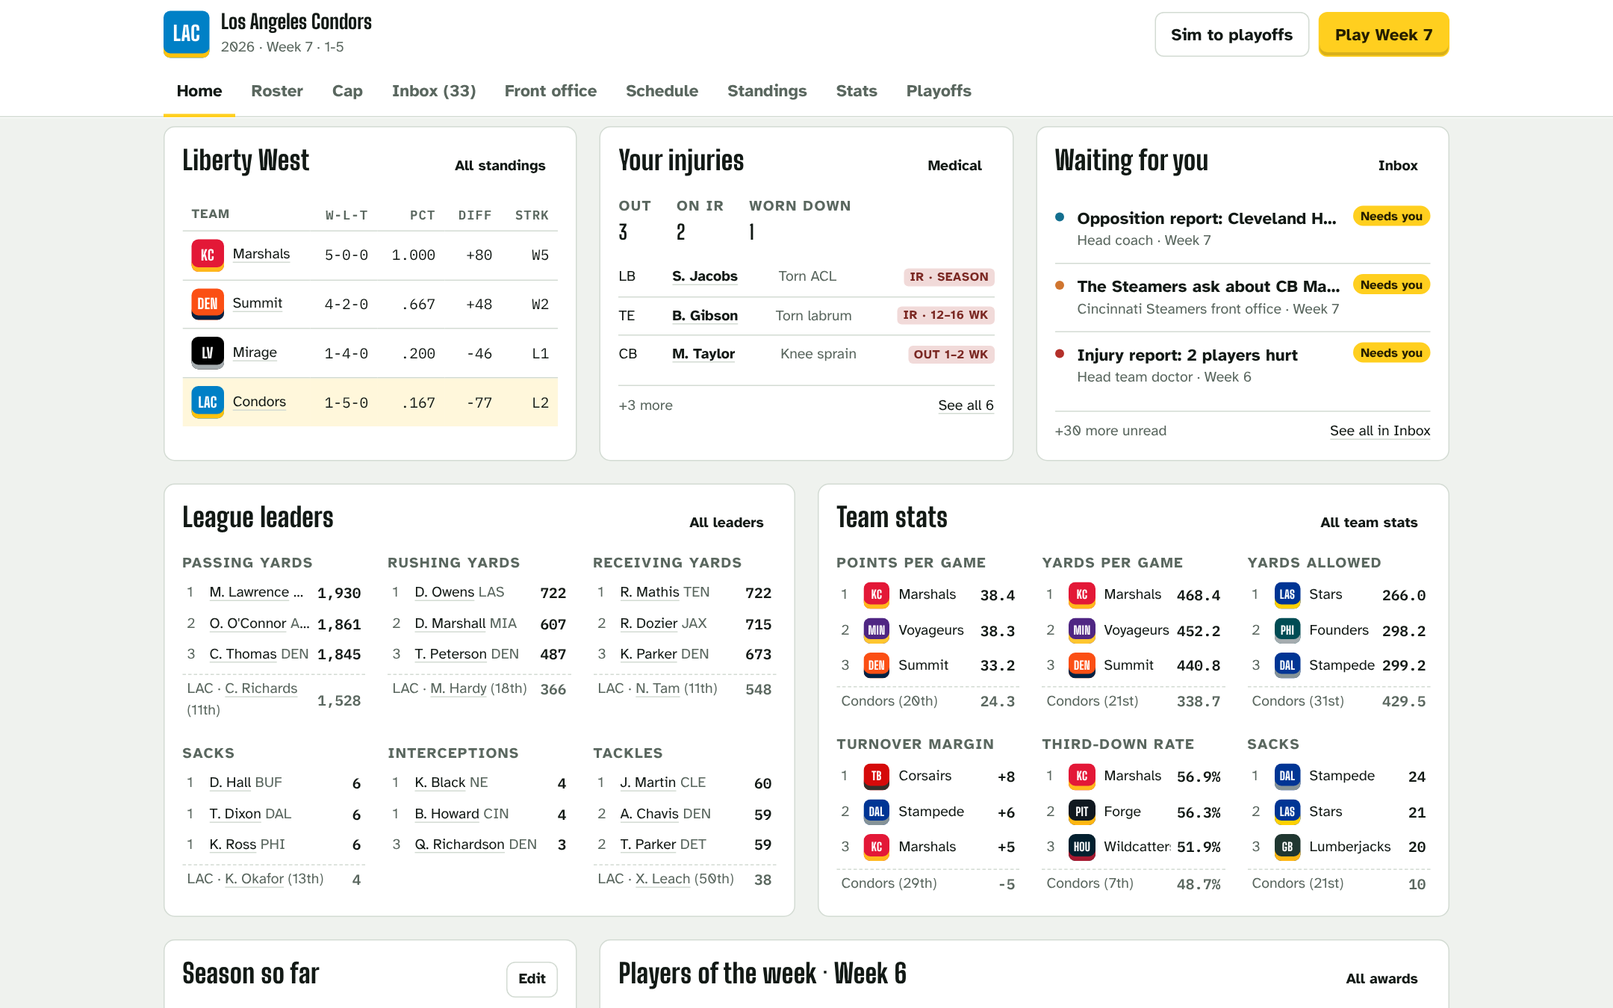
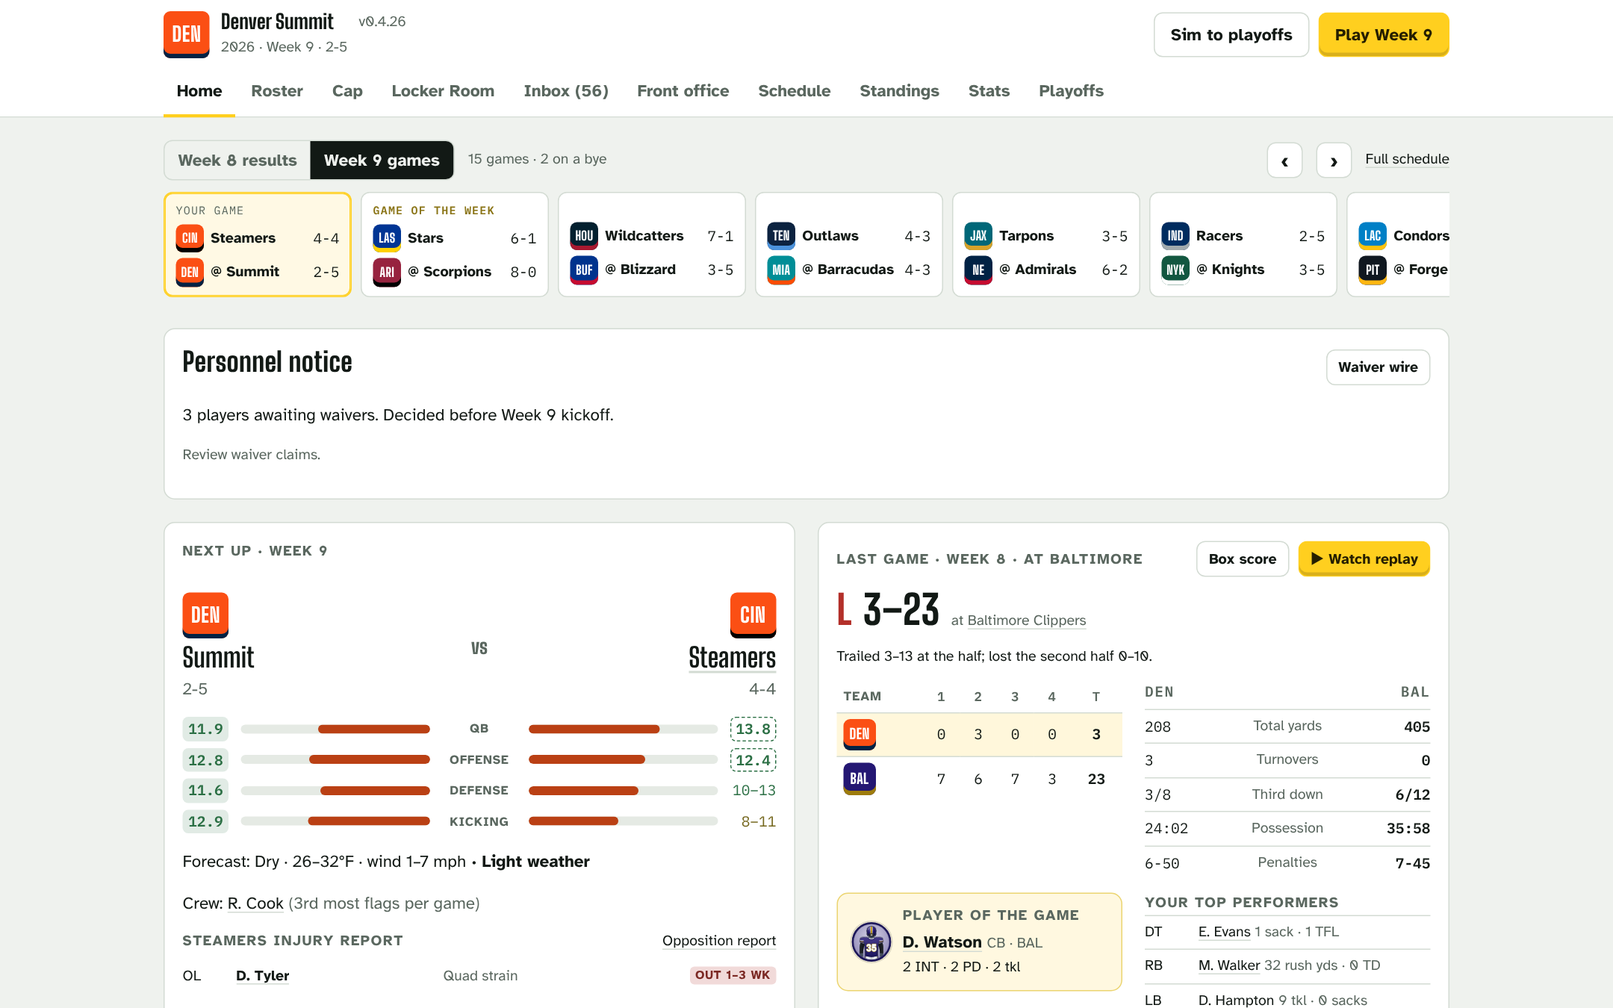
README: a new pass, with new pictures in both themes
The README had fallen behind the game: it now says what alpha holds (the
spatial field and All-22, morale and the locker room, GM habits and memory,
practice squads, job security), shows the engine's numbers against the NFL's
from a ten-season run, and adds sections on what's under the hood, the docs,
what's next and the names. The checks list follows package.json.

New media from a fresh 2026 career on the current build: a tour GIF, one play
in All-22, screens in light and dark, phone layouts, and one player's card two
seasons apart. The old coaches and four-years-on shots are gone.

Claude-Session: https://claude.ai/code/session_01M3omQsJzSsqj7NzvUuiPJn

diff --git a/README.md b/README.md
@@ -1,84 +1,280 @@
 # AFLS
 
-A deep American football management simulation: run a franchise in a fictional 32-team league, complete with divisions/conferences, weather, authentic kickoff times, and more.
-Build the roster and the coaching staff along with back office staff, and watch every snap play out from real player-vs-player matchups.
-Everything your front office knows is what its scouts have seen, so the game lives in the gap
-between what you believe and what is true. Think you know ball?
+**A deep American football management sim: Football Manager's depth, pro football's rules, a league of your own.**
 
-![A week in the front office: the home screen, then the roster and depth chart](docs/media/demo.gif)
+Run a franchise in a fictional 32-team league, complete with divisions and conferences, weather, authentic
+kickoff times, and more. Build the roster, the coaching staff and the back office, and watch every snap play
+out from real player-vs-player matchups. Everything your front office knows is what its scouts have seen, so
+the game lives in the gap between what you believe and what is true. Think you know ball?
 
-<table>
-  <tr>
-    <td width="50%"><img src="docs/media/home.png" alt="Home at week 7: division standings, injuries, inbox, league leaders and team stats"><br><sub><b>Home.</b> Standings, injuries, what the inbox needs from you, league leaders and team stats.</sub></td>
-    <td width="50%"><img src="docs/media/coaches.png" alt="Coaches: the quarterbacks room opened to show who counts for growth and decline"><br><sub><b>Coaches.</b> Open a room to see who counts for its players' growth and decline, and by how much.</sub></td>
-  </tr>
-  <tr>
-    <td width="50%"><img src="docs/media/player-card.png" alt="A player card in 2026: scout's report, habits, health and the ratings behind his overall"><br><sub><b>A player, year one.</b> The scout's report, his habits, his health, and the ratings behind his overall.</sub></td>
-    <td width="50%"><img src="docs/media/player-card-four-years-on.png" alt="The same player four seasons later: rating arrows, his development curve from 15.1 to 16.5, and his veteran deal"><br><sub><b>The same player, four seasons on.</b> Arrows since last year, his development curve, and the deal he earned.</sub></td>
-  </tr>
-</table>
+![A week at the desk: home, the head coach's letter, the depth chart, a rookie's card, a trade offer for him, then the locker room and a touchdown in All-22](docs/media/demo.gif)
+
+<sub>A week at the desk: Home, the head coach's weekly letter, the depth chart and a rookie's card, a trade
+offer for him, then (in the dark theme) the locker room and a 48-yard touchdown run in All-22.</sub>
+
+**Status: alpha (0.4).** Every item on the [MVP list](docs/MVP.md) works end to end. It runs in your browser
+and saves there: no account, no server, no install beyond `npm`.
+
+[On film](#every-snap-on-film) · [What's in the game](#whats-in-the-game) · [Screens](#screens) ·
+[Light and dark](#light-and-dark-desktop-and-phone) · [Checked against the NFL](#checked-against-the-nfl) ·
+[Play](#play) · [Under the hood](#under-the-hood) · [Develop](#develop) · [Docs](#docs) ·
+[What's next](#whats-next)
+
+## Every snap, on film
+
+![One play in All-22: a 46-yard completion down the right side](docs/media/all22.gif)
+
+<sub>Week 3 against Buffalo, 1st and 10 at our own 35: Spencer to Franklin deep right for 46 yards.</sub>
+
+The play-by-play engine decides what happened from the matchups on the field: protection against the rush,
+routes against coverage, the passer's read, the tackle in the open field. In your games a spatial engine then
+plays it out, twenty-two men at twenty steps a second. The line sets and the rush gets home or doesn't, the
+quarterback throws, throws it away or takes off, the back reads his blocks, the chase runs him down, and the
+man who gets there is the man credited with the tackle. Watch any of your games back, snap by snap, in All-22
+or the broadcast view.
 
 ## What's in the game
 
-- **Every snap is a matchup.** Pass protection against the rush, routes against coverage, tackles
-  against the open field: each play is resolved from named contests between the players on the
-  field, and league totals land inside real NFL ranges.
-- **You see what your scouts see.** Other teams' players are ranges that narrow with film; hidden
-  traits and habits are described in words, never numbers. Scout reports read like a staff wrote them.
-- **A front office with teeth.** Year-by-year contract ledgers with proration, dead money and
-  restructures; tags, the rookie scale, re-signings, free agency and a draft fed by a combine.
-- **A trade market that judges every deal.** AI front offices value players on their own read,
-  shop at the NFL's moments (deadline day, cap casualties, camp cuts), send you offers, and run every
-  deal past the buyer's doctor.
-- **Staff who matter.** Scouts set how sharp your read is, coaches shape development and call the
-  game through their schemes, the medical staff decide how fast players heal. Each has a budget,
-  contracts, a market and a carousel.
-- **Players grow, fade and change.** Development and aging on one curve, hidden traits, on-field
-  habits that come and go week to week, and position moves taught over a season.
-- **Injuries you have to manage.** Snap and collision risk, layoffs with the doctor's estimate,
-  injured reserve, treatments with the player's say, and a concussion protocol.
-- **A league that runs like one.** NFL-formula schedules, kickoff windows and flex scheduling,
-  weather by stadium, officiating crews with tendencies, penalties, records and awards.
-- **A watchable game.** Live play-by-play with a field view, box scores, and an inbox where your
-  head coach, scouting director and doctor each write in their own voice.
-- **Saves you own.** The game saves to your browser and exports a backup file; one command builds
-  a single self-contained HTML file to share.
+**On the field**
+
+- **Every snap is a matchup.** Each play is resolved from named contests between the players on the field,
+  and league totals land inside real NFL ranges ([the numbers](#checked-against-the-nfl)).
+- **Choices, not flat odds.** A passer under pressure, a runner at the sideline with the clock running, a
+  scrambler deciding to slide, a coach going for two: each reads the down, the score, the clock and the man.
+  The play-by-play says why ("slides with the first down in hand", "steps out of bounds to stop the clock").
+- **Size, schemes and habits.** Height and weight matter where they decide things (contested balls, the jam,
+  the trenches). Coordinators run real offenses, fronts and coverages. Players carry on-field habits that come
+  and go, and you learn them the way a club does: your scouts see them on film.
+- **Weather, crews and the clock.** Weather by stadium and season with forecasts that come true as often as
+  they say, seventeen officiating crews with their own tendencies, and end-of-game clock management audited
+  for nonsense.
+
+**The front office**
+
+- **You see what your scouts see.** Other teams' players are ranges that narrow with film; hidden traits and
+  habits are described in words, never numbers. Scout reports read like a staff wrote them.
+- **A cap with teeth.** Year-by-year contract ledgers with proration, dead money, restructures and void years;
+  tags, fifth-year options, the rookie scale, re-signings, free agency and a seven-round draft fed by a combine.
+- **A trade market that judges every deal.** AI front offices value players on their own read, shop at the
+  NFL's moments (deadline day, cap casualties, camp cuts, draft day), send you offers, and run every deal past
+  the buyer's doctor.
+- **General managers who are people.** Each AI GM has hidden habits (signs a bridge quarterback, trades firsts
+  for stars, goes gun-shy on big deals) and remembers how you've dealt with him. It leans his price, his
+  patience and whether he calls you first.
+- **The 53 and the 16.** Practice squads, the waiver wire, game-day call-ups, poaching and protections, with AI
+  clubs covering their injuries the way real ones do.
+
+**The people**
+
+- **Staff who matter.** Scouts set how sharp your read is, coaches shape development and call the game through
+  their schemes, the medical staff decide how fast players heal. Each has a budget, contracts, a market, a
+  carousel and coaching trees that grow over the years.
+- **Players grow, fade and change.** Development and aging on one curve, ceilings that settle over a player's
+  first three seasons (first-rounders bust, Day 3 picks break out), position moves taught over a season, and
+  veterans mentoring the young.
+- **A locker room.** Every player has a mood with reasons behind it: his deal, his snaps, the losing, a feud.
+  He'll come to you about it. You promise, reassure or stand firm, and promises are kept or broken by what
+  happens next. Ignore it and you get hold-ins, holdouts and trade requests that leak.
+- **Leaders, meetings and belief.** Leaders and voices set the tone of each position room. Your head coach
+  suggests team meetings when a room turns, chemistry moves play a little on Sunday, and a coordinator who
+  loses his room can be relieved in season.
+- **Injuries you have to manage.** Snap and collision risk, layoffs with the doctor's estimate, injured
+  reserve, treatments with the player's say, and a concussion protocol.
+
+**Your desk**
+
+- **An inbox worth reading.** Your head coach, scouting director, doctor, the owner, agents and rival GMs each
+  write in their own voice, and the head coach's weekly letter tells your club's storylines as they unfold.
+  The league's news desk and a stats column cover everyone else.
+- **A job you can lose.** Owners have budgets, patience and a memory. Bad seasons put heat on the GM or the
+  head coach; you can be fired, take another club's offer, or watch from the outside until one comes.
+- **A league that runs like one.** NFL-formula schedules, kickoff windows and flex scheduling, standings with
+  tiebreakers, a 14-team playoff, records, awards and career histories for players, coaches and GMs.
+- **Saves you own.** The game autosaves to your browser, exports a backup file, and migrates old saves on
+  load; one command builds a single self-contained HTML file to share.
+
+## Screens
+
+<table>
+  <tr>
+    <td width="50%"><img src="docs/media/coach-letter.png" alt="The head coach's weekly letter: three players came to see him about their contracts and snaps, each with answer buttons"><br><sub><b>The head coach's letter.</b> Who came to see him this week, in their words, and your answer to each.</sub></td>
+    <td width="50%"><img src="docs/media/trade-offer.png" alt="The trade desk in the dark theme: Buffalo offers three picks for a rookie tackle, with the head coach's and the cap's notes"><br><sub><b>The trade desk.</b> Buffalo wants the rookie tackle. Your coach and your cap sheet weigh in before you answer.</sub></td>
+  </tr>
+  <tr>
+    <td width="50%"><img src="docs/media/locker-room.png" alt="The Locker Room: the room's mood, what is on players' minds, and who needs a word"><br><sub><b>The Locker Room.</b> The room's mood, what's on their minds, and who needs a word.</sub></td>
+    <td width="50%"><img src="docs/media/salary-cap.png" alt="The salary cap screen in the dark theme: this year's cap sheet, a five-year outlook chart and the contracts table"><br><sub><b>The cap.</b> This year's sheet, the five-year outlook, and what every release would cost.</sub></td>
+  </tr>
+</table>
+
+### One player, two seasons apart
+
+<table>
+  <tr>
+    <td width="50%" valign="top"><img src="docs/media/player-card.png" alt="A rookie tackle's card in 2026: overall 15.1, potential shown as a range of 15 to 20, and a scout's report that calls him a projection"><br><sub><b>2026, a rookie.</b> Rated 15.1, and his ceiling is a range (15–20): "how high he goes is still our scouts' guess."</sub></td>
+    <td width="50%" valign="top"><img src="docs/media/player-card-two-years-on.png" alt="The same player in 2028: overall 17.4, potential settled at 17, rating arrows and a development curve from 15.1 to 17.1"><br><sub><b>2028, the same player.</b> Rated 17.4. The range has closed to 17, the report says so, and the curve shows how he got there.</sub></td>
+  </tr>
+</table>
+
+The save behind these pictures was left to play itself for four seasons. The general manager went 5–12, 11–6
+and 7–10 in Denver, was dismissed, and was hired that spring by New York, a 2–15 club that won ten games the
+next year.
+
+## Light and dark, desktop and phone
+
+<table>
+  <tr>
+    <td width="50%"><img src="docs/media/home.png" alt="Home in the light theme: this week's games, the next opponent, the last result"><br><sub><b>Home, light.</b></sub></td>
+    <td width="50%"><img src="docs/media/home-dark.png" alt="The same Home screen in the dark theme"><br><sub><b>Home, dark.</b> Or follow your device's setting.</sub></td>
+  </tr>
+</table>
+
+<table>
+  <tr>
+    <td width="25%"><img src="docs/media/phone-home.png" alt="Home on a phone, light theme"></td>
+    <td width="25%"><img src="docs/media/phone-all22.png" alt="A replay in All-22 on a phone, the field turned upright"></td>
+    <td width="25%"><img src="docs/media/phone-locker-room.png" alt="The Locker Room on a phone, dark theme"></td>
+    <td width="25%"><img src="docs/media/phone-player-card.png" alt="A player card on a phone, dark theme"></td>
+  </tr>
+</table>
+
+<sub>Every screen has a phone layout, the film room included: the field turns upright.</sub>
+
+## Checked against the NFL
+
+Nothing here is tuned by feel. Each system has a script that plays thousands of games or many seasons and
+holds the result to ranges taken from real data (nflverse play-by-play, FTN charting, Next Gen Stats, combine
+and roster records). The same scripts run on every pull request.
+
+One ten-season run of this build (2,720 games, `npm run sim -- 10`), per team per game:
+
+| Stat               |   Sim | NFL range |
+| ------------------ | ----: | --------: |
+| Points             |  21.9 | 21.5–23.5 |
+| Plays              |  61.7 |     61–65 |
+| Total yards        | 327.6 |   315–345 |
+| Completion %       |  64.4 |   63–66.5 |
+| Yards per attempt  |  6.99 |   6.7–7.3 |
+| Yards per carry    |  4.21 |   4.1–4.5 |
+| Sacks              |  2.33 |   2.1–2.6 |
+| Interceptions      |  0.71 | 0.65–0.85 |
+| Third-down %       |  39.9 |     37–41 |
+| Field goal %       |  86.1 |     83–88 |
+| Penalties          |  6.02 |     5.5–7 |
+| Home team wins (%) |  54.5 |     53–57 |
+
+Not every line lands in every sample: in that run rushing attempts came in at 25.9 against a range of 26–29,
+and it was flagged. Ten seasons is a quick look; CI plays sixty.
+
+The same idea runs through the rest of the game:
+
+- **Play by situation.** Out of bounds by the clock and the side of the field, what a passer does under
+  pressure, fumbles by the hit, who gets a loose ball, interceptions by the throw's depth, a sack's yards, a
+  play's time, two-point tries and returns, each fitted bucket by bucket.
+- **Careers.** Peaks, declines and retirements by position, draft busts and late-round breakouts, and season
+  leaders against the NFL's leaders and records.
+- **Front offices.** What a star, a starter and a deadline rental cost in trade, how many deals close and
+  when, who re-signs and who reaches free agency, cap health and roster sizes over back-to-back seasons.
+- **Everything else.** Injury rates, weather, flags per crew, coaching turnover, the league's moods. And an
+  audit that raises each rating in turn and fails if it doesn't move play: no attribute is decoration.
 
 ## Play
 
 ```bash
 npm install
-npm run dev        # open the printed local URL
 ```
 
-The game runs in your browser and saves there. It is not hosted anywhere yet.
+```bash
+npm run dev
+```
+
+Open the local URL it prints. The game runs in your browser and saves there. It is not hosted anywhere yet.
+
+To hand someone a copy, `npm run build:single` writes one self-contained page to `dist-single/afls.html`.
+
+## Under the hood
+
+- **The engine is plain TypeScript** (`src/engine/`, about 40,000 lines): no DOM, no React, no `Math.random`.
+  All randomness goes through a seeded generator, so a league seed rebuilds the same world and any game can be
+  replayed exactly.
+- **The league is one plain JSON document.** It autosaves to IndexedDB, exports as a file, and every change
+  to its shape ships with an upgrade step, so old saves are migrated on load, never thrown away.
+- **True against perceived.** The match engine, development and contracts use true ratings. AI front offices
+  decide about other teams' players on their own scouts' read, and the screens show only your view. Tests
+  hold every screen to that.
+- **The UI is React** (`src/ui/`), built with Vite, with one set of rules for every screen
+  ([`docs/UI.md`](docs/UI.md)).
+- **About 3,000 tests** and some two dozen calibration scripts, planned per change: a pull request runs the
+  checks its diff calls for, one CI job each.
+
+```
+src/engine/    the simulation: match engine, field, scouting, staff, finance, offseason, trades, morale
+src/ui/        the screens, one mutable League in a store, autosaved
+scripts/       the checks and previews (sim, careers, trades, screens, ...)
+docs/          design, research and the spec for each system
+```
 
 ## Develop
 
-Start with `npm run check`. It reads what you changed, runs the checks that change calls for side
-by side, and prints one line each. CI runs the same plan on every pull request, so a red line here
-is a red check there.
+`npm run check` reads what you changed against `origin/main`, runs the checks that change calls for side by
+side, and prints one line each. CI runs the same plan on every pull request, so a red line here is a red
+check there.
 
 ```bash
 npm run check            # the checks your change needs; --quick skips the slow ones, --all runs everything
 npm run typecheck        # tsc, no emit
 npm test                 # engine and UI tests (vitest); npm run test:watch keeps them running
+npm run format           # prettier
 npm run build            # production web build in dist/
-npm run build:single     # one self-contained page at dist-single/afls.html, for sharing
 npm run preview          # serve the production build locally
-
-npm run sim -- 10        # simulate seasons and compare league stats, leaders and injury rates to the NFL's
-npm run endings          # audit thousands of game endings for clock-management nonsense
-npm run offseason -- 6   # run seasons back to back: cap health, rosters, talent and the staff economies
-npm run audit            # raise each rating in turn and check it moves play; rewrites docs/ATTRIBUTES.md
-npm run careers          # age a draft class: peaks, declines, retirements, trait and coaching effects
-npm run quirks           # the on-field habit bag: how often habits are carried, gained and lost
-npm run weather          # roll seasons of weather and check it looks like the NFL's
-npm run crews            # officiating crews: flags per game, busiest against quietest, the rotation
-npm run trades           # the trade market against NFL prices, every AI deal read as it closes
-npm run training         # position moves and development released in steps
-npm run waivers -- 2     # staged waiver AI: legal claims, cap/rosters and reload determinism
 ```
 
-See [`docs/GAME_DESIGN.md`](docs/GAME_DESIGN.md) for the vision, how the engine works and the
-roadmap, and [`CLAUDE.md`](CLAUDE.md) for the working notes on the codebase.
+The checks, each run after changing its area:
+
+| Area | Commands | What they hold |
+| --- | --- | --- |
+| League totals | `sim`, `endings` | League stats, leaders and injury rates against the NFL's; game endings audited for clock-management nonsense |
+| Play by situation | `sideline`, `passer`, `fumbles`, `picks`, `dropback`, `situations` | Each kind of play, bucket by bucket, against nflverse and charting data |
+| The field | `parity`, `film` | The spatial engine against the play-by-play engine on the same moments; All-22 against tracking numbers |
+| Ratings and builds | `audit`, `size`, `quirks` | Every rating, build and habit moves play the right way |
+| Game day | `weather`, `crews` | Weather like the NFL's and what it costs; flags per crew |
+| Careers | `careers`, `training` | Peaks, declines, retirements and draft outcomes; position moves and development released in steps |
+| Front offices | `offseason`, `trades`, `gm-habits` | Cap health, rosters and free agency over seasons; trade prices and exploit probes; AI GMs' habits |
+| The 53 and the 16 | `waivers`, `squads`, `elevations`, `poaching` | Practice squads, claims, call-ups and poaching stay legal all season |
+| The locker room | `morale` | Moods, talks, meetings, chemistry and belief in the staff, all in range |
+| Previews (not checks) | `screens`, `copy`, `mail-preview`, `gm-letters` | Screenshots of the real app from a save, every sentence a screen can show, letters at each moment of the year |
+
+Each is `npm run <name>`; [`CLAUDE.md`](CLAUDE.md) has the arguments, the run times and when to run which.
+
+## Docs
+
+- [`docs/GAME_DESIGN.md`](docs/GAME_DESIGN.md): the vision, how the engine, scouting, development, coaching
+  and the front office work, and the roadmap.
+- [`docs/MVP.md`](docs/MVP.md): the checklist to alpha and what has landed since, with the numbers each
+  change was held to.
+- By system: [attributes](docs/ATTRIBUTES.md), [injuries](docs/INJURIES.md), [trades](docs/TRADES.md),
+  [training](docs/TRAINING.md), [practice squads](docs/PRACTICE_SQUADS.md), [weather](docs/WEATHER.md),
+  [penalties](docs/PENALTIES.md), [officials](docs/OFFICIALS.md), [player habits](docs/QUIRKS.md),
+  [coach habits](docs/COACH_QUIRKS.md), [names](docs/NAMES.md), [news](docs/NEWS.md),
+  [avatars](docs/AVATARS.md).
+- [`docs/UI.md`](docs/UI.md): the rules every screen follows, including what a screen may show through the
+  fog of war and how screen text is written.
+- [`docs/research/`](docs/research/): the market research and the real-world studies behind the numbers.
+- [`docs/superpowers/specs/`](docs/superpowers/specs/): the design spec for each system, written before it
+  was built.
+- [`CLAUDE.md`](CLAUDE.md): working notes on the codebase and its conventions.
+  [`docs/VERSIONING.md`](docs/VERSIONING.md): how versions are counted.
+
+## What's next
+
+- **News and media.** A league news desk and a stats column are in the inbox today; full outlets and season
+  storylines for the whole league come next ([`docs/NEWS.md`](docs/NEWS.md)).
+- **A deeper scouting network.** Departments, budgets and per-scout reads are in; regions are not.
+- **More of the owner.** Goals and broader job security on top of today's reviews, firings and hirings.
+- **Modding.** League import and export and an in-game editor, so the community can make its own leagues.
+- **Off the browser.** Desktop packaging, then a public prototype.
+
+## Names
+
+AFLS is a fictional league. Teams play in real cities with original nicknames, and every player, coach and
+executive is generated. It is not affiliated with or endorsed by the NFL or any club, and it ships no real
+names, logos or trademarks.
